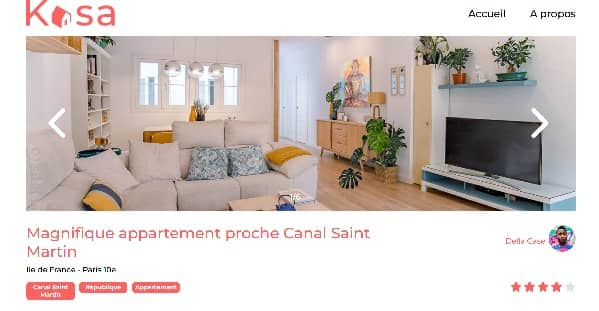
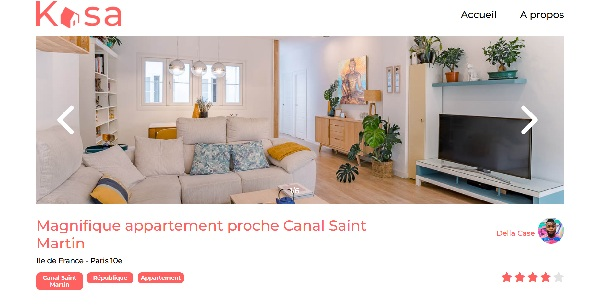
ajout des photos pour les résolutions 200 et 400px pour les projets kasa et sophie bluel

diff --git a/mon-portfolio/src/assets/composants/carousel.jsx b/mon-portfolio/src/assets/composants/carousel.jsx
@@ -1,0 +1,42 @@
+import { useState } from "react";
+
+function Carousel({ pictures }) {
+  const [index, setIndex] = useState(0);
+
+  const nextImage = () => {
+    if (index === pictures.length - 1) setIndex(0);
+    else setIndex(index + 1);
+  };
+
+  const prevImage = () => {
+    if (index === 0) setIndex(pictures.length - 1);
+    else setIndex(index - 1);
+  };
+
+  const imageSrc = pictures.map((picture) => {
+    return picture.src;
+  });
+
+  const imageSrcSet = pictures.map((picture) => {
+    return picture.srcSet;
+  });
+
+  return (
+    <>
+      <img
+        className="modal_image"
+        src={imageSrc[index]}
+        srcSet={imageSrcSet[index]}
+        alt="image du projet"
+      />
+      <i onClick={nextImage} className="fa-solid chevron-right">
+        &#xf054;
+      </i>
+      <i onClick={prevImage} className="fa-sharp fa-solid chevron-left">
+        &#xf053;
+      </i>
+    </>
+  );
+}
+
+export default Carousel;

diff --git a/mon-portfolio/src/assets/layout/modal.jsx b/mon-portfolio/src/assets/layout/modal.jsx
@@ -1,5 +1,6 @@
 import { useState } from "react";
 import Projects from "../../../projects.json";
+import Carousel from "../composants/carousel";
 
 function Modal({ onSuccess, id }) {
   const project = Projects.find((project) => project.id === id);
@@ -47,11 +48,7 @@ function Modal({ onSuccess, id }) {
         </div>
         <h2 className="project_card-title">{project.title} </h2>
         <div className="modal_image-container">
-          <img
-            className="modal_image"
-            src={project.cover}
-            alt="image du projet"
-          />
+          <Carousel pictures={project.pictures} />
         </div>
         <div className="modal_buttons-container">
           <button
